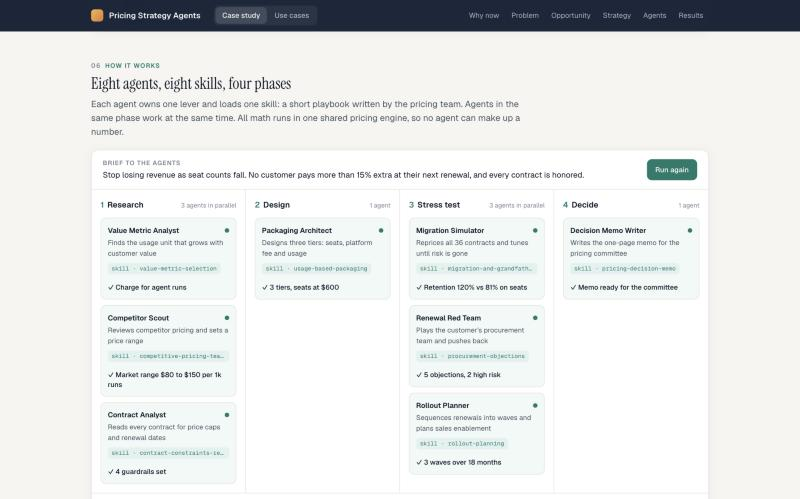
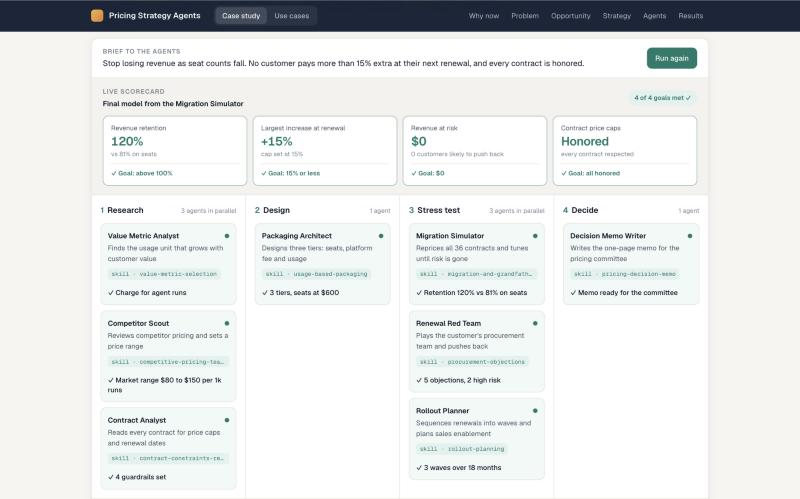
Show the scorecard and recommendation in the README
Explain what a viewer sees during a run and add screenshots of the scorecard and the final recommendation.

diff --git a/README.md b/README.md
@@ -72,7 +72,15 @@ A company with $100M ARR and the same mix would see roughly $39M a year.
 
 ## 6. How it works
 
-![Agent board](docs/agents.jpg)
+Click **Watch the agents work** and the run plays out on one board:
+
+1. **Live scorecard.** The four goals from the brief sit at the top: retention above 100%, no increase above 15%, $0 revenue at risk and every contract honored. Each time an agent tests a pricing model, the scorecard updates. The first draft meets 1 of 4 goals. The final model meets all 4.
+2. **Agent cards.** Each agent says in plain words what it is doing, then shows its result.
+3. **The recommendation.** The five levers fill in as agents finish, ending with the recommendation to the pricing committee and links to the memo, the simulator and the customer objections.
+
+![Agent board with live scorecard](docs/agents.jpg)
+
+![The recommendation](docs/recommendation.jpg)
 
 Eight agents work in four phases. Agents in the same phase run at the same time.
 
